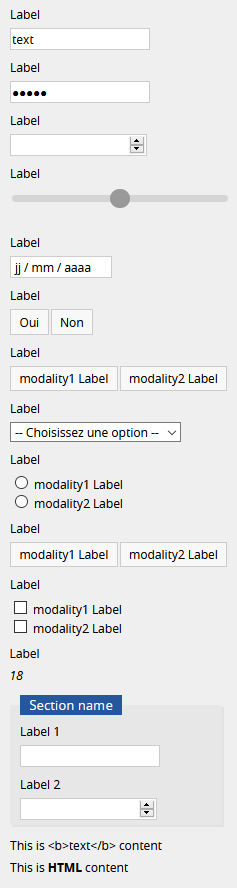
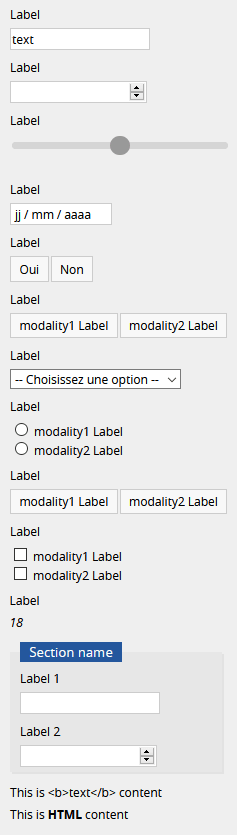
Remove password widget from documentation

Changed region(s): [[0.0295, 0.0, 0.9747, 0.8407], [0.0295, 0.903, 0.6793, 0.9964], [0.0886, 0.8719, 0.2658, 0.903]]

diff --git a/src/sites/goupile.fr/manual.html b/src/sites/goupile.fr/manual.html
@@ -113,61 +113,57 @@
                 </tr>
                 <tr>
                     <td class="widget"><img src="static/screenshots/widgets.png" style="height: 58px; object-position: 0 -53px;"/></td>
-                    <td class="code">page.password("variable", "Label")</td>
-                </tr>
-                <tr>
-                    <td class="widget"><img src="static/screenshots/widgets.png" style="height: 58px; object-position: 0 -106px;"/></td>
                     <td class="code">page.number("variable", "Label")</td>
                 </tr>
                 <tr>
-                    <td class="widget"><img src="static/screenshots/widgets.png" style="height: 58px; object-position: 0 -159px;"/></td>
+                    <td class="widget"><img src="static/screenshots/widgets.png" style="height: 58px; object-position: 0 -106px;"/></td>
                     <td class="code">page.slider("variable", "Label")</td>
                 </tr>
                 <tr>
-                    <td class="widget"><img src="static/screenshots/widgets.png" style="height: 58px; object-position: 0 -228px;"/></td>
+                    <td class="widget"><img src="static/screenshots/widgets.png" style="height: 58px; object-position: 0 -175px;"/></td>
                     <td class="code">page.date("variable_name", "Label")</td>
                 </tr>
                 <tr>
-                    <td class="widget"><img src="static/screenshots/widgets.png" style="height: 63px; object-position: 0 -281px;"/></td>
+                    <td class="widget"><img src="static/screenshots/widgets.png" style="height: 63px; object-position: 0 -228px;"/></td>
                     <td class="code">page.binary("variable_name", "Label")</td>
                 </tr>
                 <tr>
-                    <td class="widget"><img src="static/screenshots/widgets.png" style="height: 63px; object-position: 0 -338px;"/></td>
+                    <td class="widget"><img src="static/screenshots/widgets.png" style="height: 63px; object-position: 0 -285px;"/></td>
                     <td class="code">page.enum("variable_name", "Label", [
     ["modality1", "modality1 Label"],
     ["modality2", "modality2 Label"]
 ])</td>
                 </tr>
                 <tr>
-                    <td class="widget"><img src="static/screenshots/widgets.png" style="height: 58px; object-position: 0 -393px;"/></td>
+                    <td class="widget"><img src="static/screenshots/widgets.png" style="height: 58px; object-position: 0 -340px;"/></td>
                     <td class="code">page.enumDrop("variable_name", "Label", [
     ["modality1", "modality1 Label"],
     ["modality2", "modality2 Label"]
 ])</td>
                 </tr>
                 <tr>
-                    <td class="widget"><img src="static/screenshots/widgets.png" style="height: 74px; object-position: 0 -445px;"/></td>
+                    <td class="widget"><img src="static/screenshots/widgets.png" style="height: 74px; object-position: 0 -392px;"/></td>
                     <td class="code">page.enumRadio("variable_name", "Label", [
     ["modality1", "modality1 Label"],
     ["modality2", "modality2 Label"]
 ])</td>
                 </tr>
                 <tr>
-                    <td class="widget"><img src="static/screenshots/widgets.png" style="height: 63px; object-position: 0 -514px;"/></td>
+                    <td class="widget"><img src="static/screenshots/widgets.png" style="height: 63px; object-position: 0 -461px;"/></td>
                     <td class="code">page.multi("variable_name", "Label", [
     ["modality1", "modality1 Label"],
     ["modality2", "modality2 Label"]
 ])</td>
                 </tr>
                 <tr>
-                    <td class="widget"><img src="static/screenshots/widgets.png" style="height: 74px; object-position: 0 -570px;"/></td>
+                    <td class="widget"><img src="static/screenshots/widgets.png" style="height: 74px; object-position: 0 -517px;"/></td>
                     <td class="code">page.multiCheck("variable_name", "Label", [
     ["modality1", "modality1 Label"],
     ["modality2", "modality2 Label"]
 ])</td>
                 </tr>
                 <tr>
-                    <td class="widget"><img src="static/screenshots/widgets.png" style="height: 51px; object-position: 0 -639px;"/></td>
+                    <td class="widget"><img src="static/screenshots/widgets.png" style="height: 51px; object-position: 0 -586px;"/></td>
                     <td class="code">page.calc("variable_name", 18)</td>
                 </tr>
             </table>
@@ -179,18 +175,18 @@
                     <th>Code</th>
                 </tr>
                 <tr>
-                    <td class="widget"><img src="static/screenshots/widgets.png" style="height: 152px; object-position: 0 -685px;"/></td>
+                    <td class="widget"><img src="static/screenshots/widgets.png" style="height: 152px; object-position: 0 -632px;"/></td>
                     <td class="code">page.section("Section name", () => {
     page.text("variable1", "Label 1")
     page.number("variable2", "Label 2")
 })</td>
                 </tr>
                 <tr>
-                    <td class="widget"><img src="static/screenshots/widgets.png" style="height: 27px; object-position: 0 -832px;"/></td>
+                    <td class="widget"><img src="static/screenshots/widgets.png" style="height: 27px; object-position: 0 -779px;"/></td>
                     <td class="code">page.output("This is &lt;b&gt;text&lt;/b&gt; content")</td>
                 </tr>
                 <tr>
-                    <td class="widget"><img src="static/screenshots/widgets.png" style="height: 27px; object-position: 0 -854px;"/></td>
+                    <td class="widget"><img src="static/screenshots/widgets.png" style="height: 27px; object-position: 0 -801px;"/></td>
                     <td class="code">page.output(html`This is &lt;b&gt;HTML&lt;/b&gt; content`)</td>
                 </tr>
             </table>
